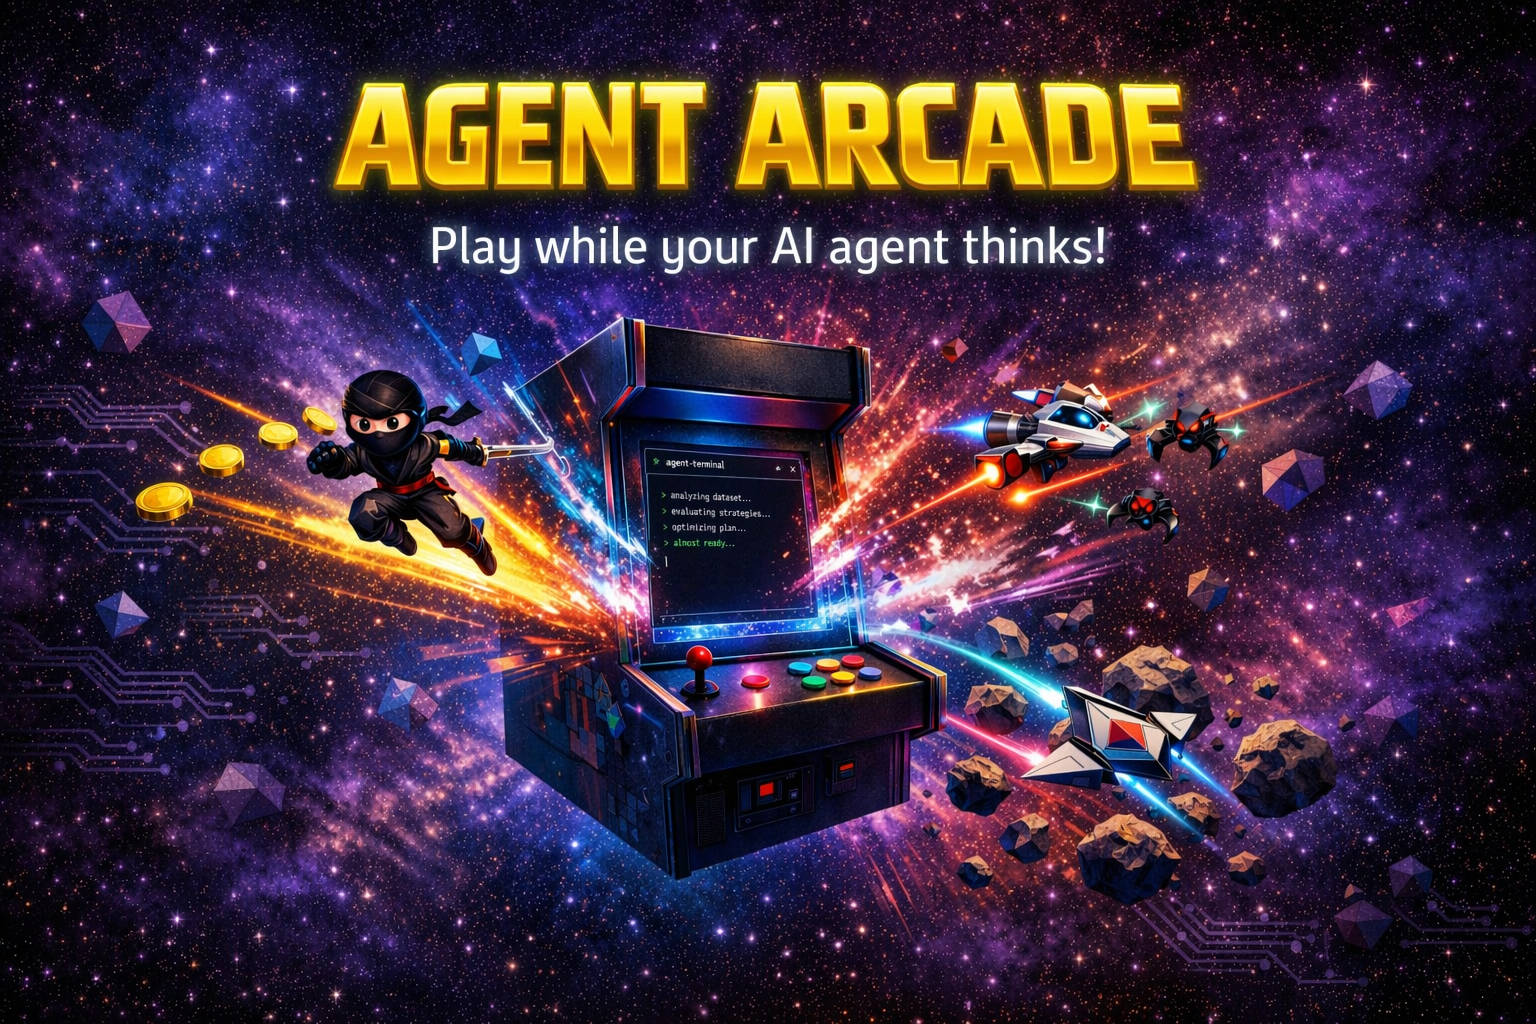
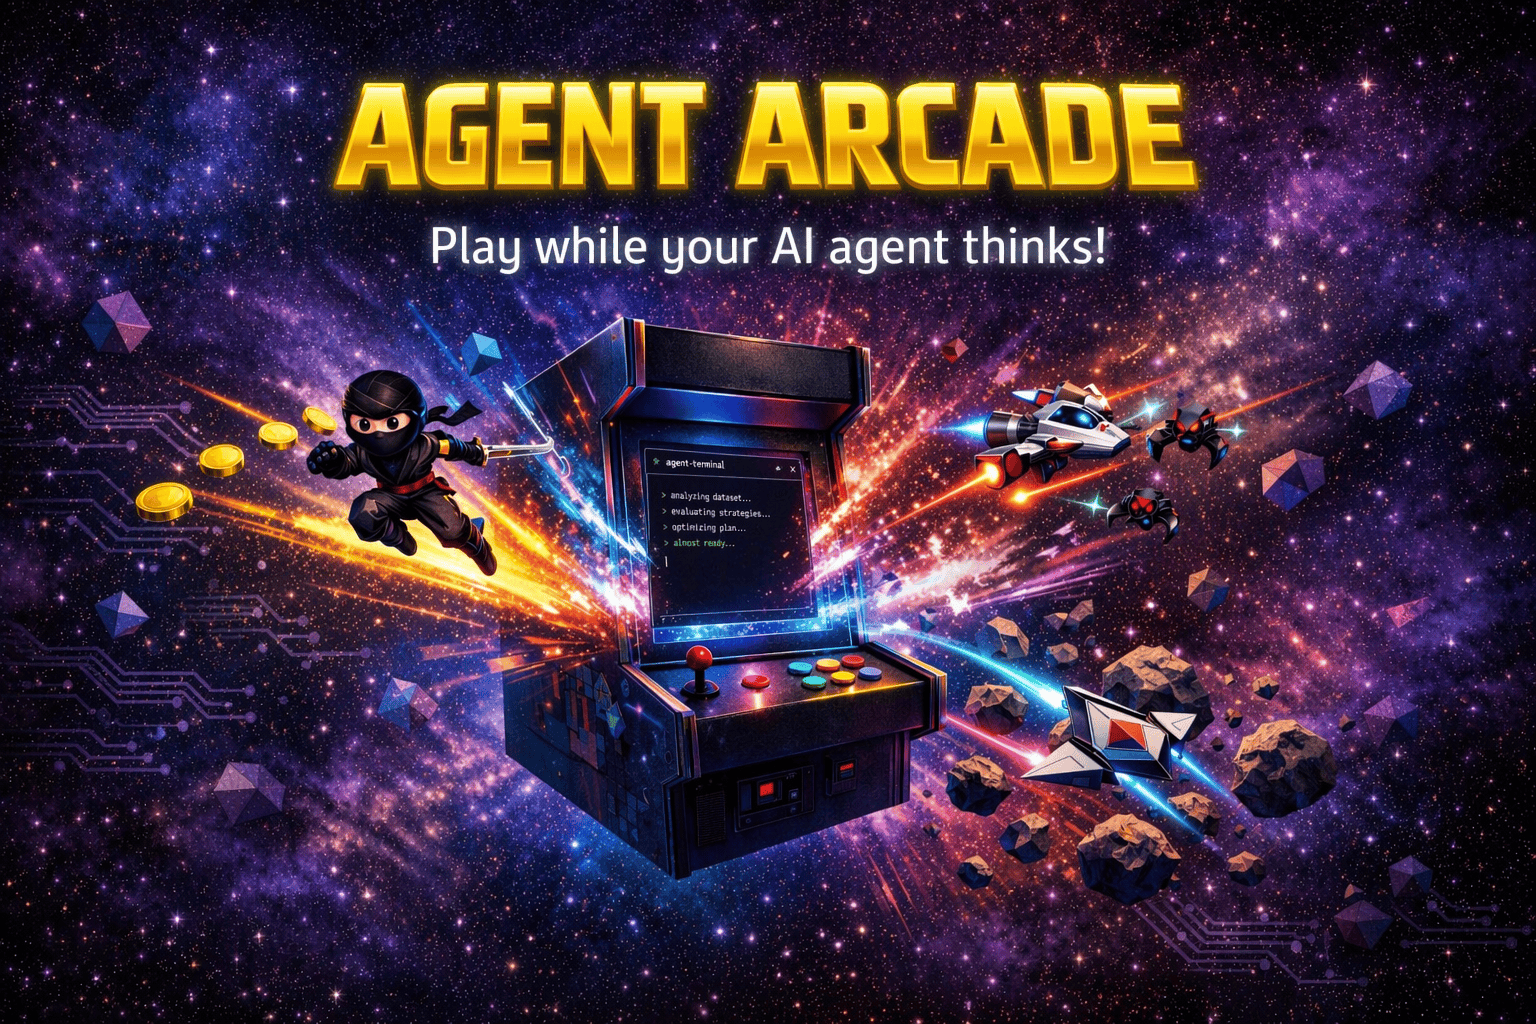
Add background image cover to header of website

diff --git a/docs/style.css b/docs/style.css
@@ -243,14 +243,26 @@ img { max-width: 100%; height: auto; }
   width: 100vw;
   margin-bottom: 32px;
   padding: 20px 0;
-  background: linear-gradient(180deg,
-    transparent 0%,
-    rgba(10,6,24,0.6) 10%,
-    rgba(10,6,24,0.85) 30%,
-    rgba(10,6,24,0.85) 70%,
-    rgba(10,6,24,0.6) 90%,
-    transparent 100%
-  );
+  background:
+    linear-gradient(180deg,
+      transparent 0%,
+      rgba(10,6,24,0.3) 10%,
+      rgba(10,6,24,0.45) 30%,
+      rgba(10,6,24,0.45) 70%,
+      rgba(10,6,24,0.3) 90%,
+      transparent 100%
+    ),
+    url('images/agent-arcade-background.png') center / cover no-repeat;
+  background:
+    linear-gradient(180deg,
+      transparent 0%,
+      rgba(10,6,24,0.3) 10%,
+      rgba(10,6,24,0.45) 30%,
+      rgba(10,6,24,0.45) 70%,
+      rgba(10,6,24,0.3) 90%,
+      transparent 100%
+    ),
+    url('images/agent-arcade-background.webp') center / cover no-repeat;
   display: flex;
   justify-content: center;
   animation: bannerFloat 6s ease-in-out infinite;
@@ -262,6 +274,8 @@ img { max-width: 100%; height: auto; }
   height: auto;
   display: block;
   filter: drop-shadow(0 0 40px rgba(155,77,255,0.2)) drop-shadow(0 0 80px rgba(255,198,41,0.08));
+  -webkit-mask-image: radial-gradient(ellipse 62% 62% at 48% 48%, black 67%, transparent 84%);
+  mask-image: radial-gradient(ellipse 62% 62% at 48% 48%, black 67%, transparent 84%);
 }
 
 @keyframes bannerFloat {
